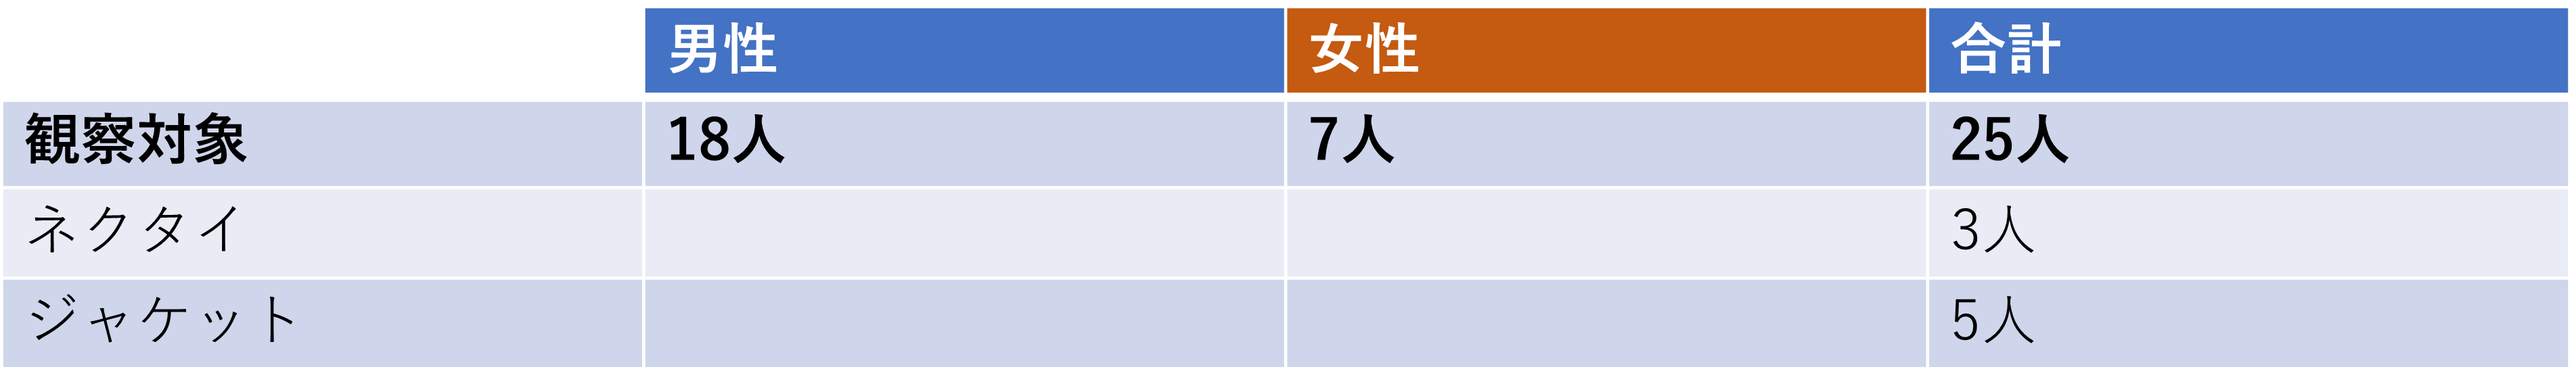
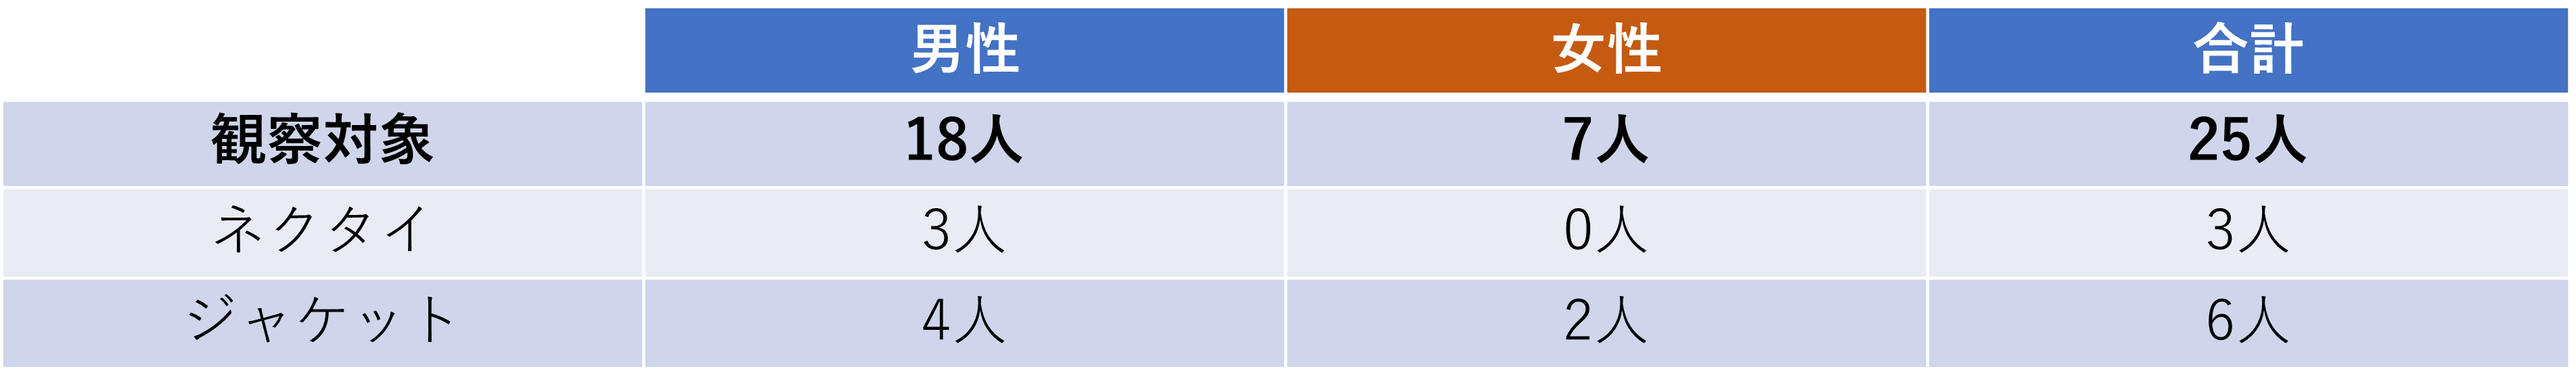
20221024

diff --git a/de12/3.html b/de12/3.html
@@ -2,17 +2,17 @@
 <html lang="jp">
 <head>
     <!-- ⑥↓タイトルを変えてみよう -->
-    <title>第３回　観察</title>
+    <title>第３回　移動観察</title>
     <!-- ⑤スタイルシートの設定をしよう -->
     <!-- h1.htmlからある行をコピペしてくればOK -->
     <link rel="stylesheet" href="./css/style.css">
 
 </head>
 <body>
-    <h1>観察について</h1>
+    <h1>移動観察</h1>
     
-    <strong><div>スーツを着てる人の「観察」</strong><br>
-   私たち５班はスーツを着ている人の観察をしました。
+    <strong><div>移動観察～スーツを着ている人～</strong><br>
+   
 </div>
     
 <ol>
@@ -20,12 +20,33 @@
    <img src="./images/kansatu2.png" width="35%"><br>
    ※紫の星は神奈川大学<br>
    【観察場所】上の図、赤い矢印のある場所<br>
+   【観察内容】スーツ着用者を対象にネクタイを着用している人、ジャケットを着ている人を観察した   <br>
+   【結果】<br>
    <img src="./images/kansatu5.png" width="45%"><br>
-   観察をした場所ではスーツを着用している人は少なかった。
-    
+   【考察】<br>
+    　スーツを着ている人は男性が多いことが分かる。私の主観ではあるが、女性はオフィスカジュアルな服装が多く、スーツを着ている人は少ない印象であった。<br>
+    逆に、働いていると思われる男性はほとんどがスーツを着ていた。<br>
+    男性は会社でカジュアルな恰好をしずらく、それに対して女性は男性に比べてフォーマルな服装を求められない風潮があると考える。<br>
+    その理由として、昔「女性はコピーにお茶くみ、男性が中心」の会社であった名残があるではないかと思う。<br>
+    男性はフォーマルな場に対応するためスーツの着用を強いられ、女性は脇役であったため、カジュアルな服装を許されたのではないかということだ。<br>
+    このことについてインターネットで検索してみると、男女の服装規定の差に不満を持つ人やそれを改善しようとする会社があった。<br>
+    <a href="https://comemo.nikkei.com/n/n141affaad9d4 " target="_blank">僕は私服で会社に行くまで10年かかった。</a><br>
+    <a href="https://note.com/aki_3o3/n/n90cd81ecacde" target="_blank">なぜ男性だけスーツを着なければならないのか？</a><br>
+    <a href="https://www.businessinsider.jp/post-201687" target="_blank">KDDIが社員の服装規定を廃止。｢男性だからスーツ｣の固定観念を見直し
+    </a><br>
+    服装規定に男女差は見られるものの、女性は以前よりも大きく社会進出してきている。服装規定もそれに追いつくように変わっていくかもしれない。<br>
+    女性の社会進出により服装規定に違和感がでてきたということだ。<br>
+    10年後、同じ観察をしてみたいと思った。<br>
+    　次に、ネクタイをしている人は全体の1割弱で、全員男性であった。
+    クールビズでない時期のため、意外と少ないと感じた。<br>
+    女性はフォーマルな恰好であってもネクタイはしないため、女性のネクタイ着用者が0人であることは納得できる。<br>
+    　最後に、男性は約22%、女性は約29%（小数点以下四捨五入）がジャケットを着用していた。<br>
+    当時の正確な気温は分からないが、観察日の最高気温は19℃、最低気温は14℃と肌寒い気温であったため、ジャケット着用者の少なさに驚いた。<br>
+    観察地周辺にはオフィスと商業施設が近くにあるため、短距離での移動だったのかもしれない。
    
    
-    <strong><li>定点観察</li></strong>
+    <strong><li>定点観察</li></strong><br>
+    定点観察の結果も参考として載せておく<br>
     <img src="./images/kansatu3.png" width="35%"><br>
     【観察場所】上の図、赤い矢印のある場所<br><br>
     <img src="./images/kansatu4.png" width="45%"><br>
